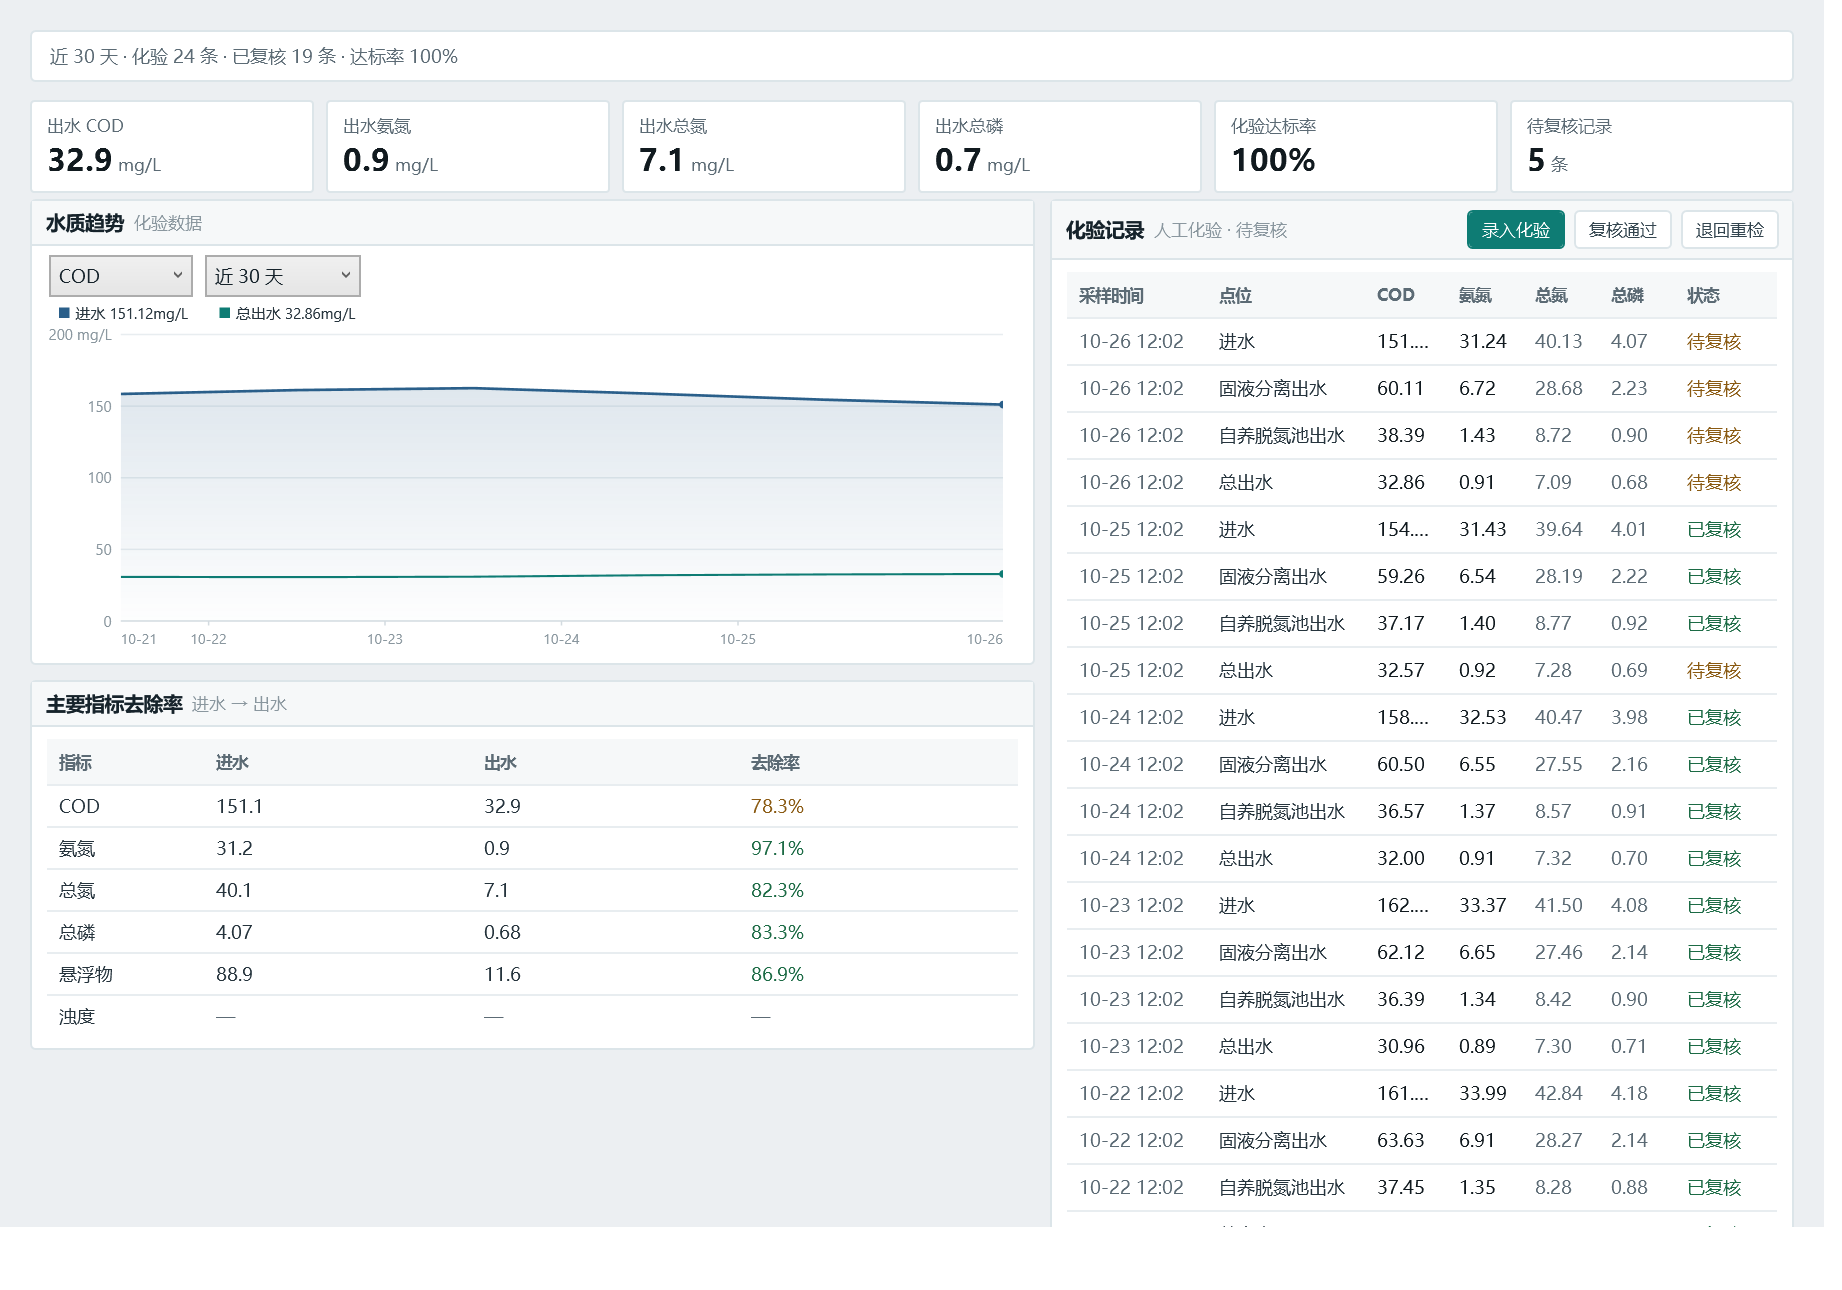
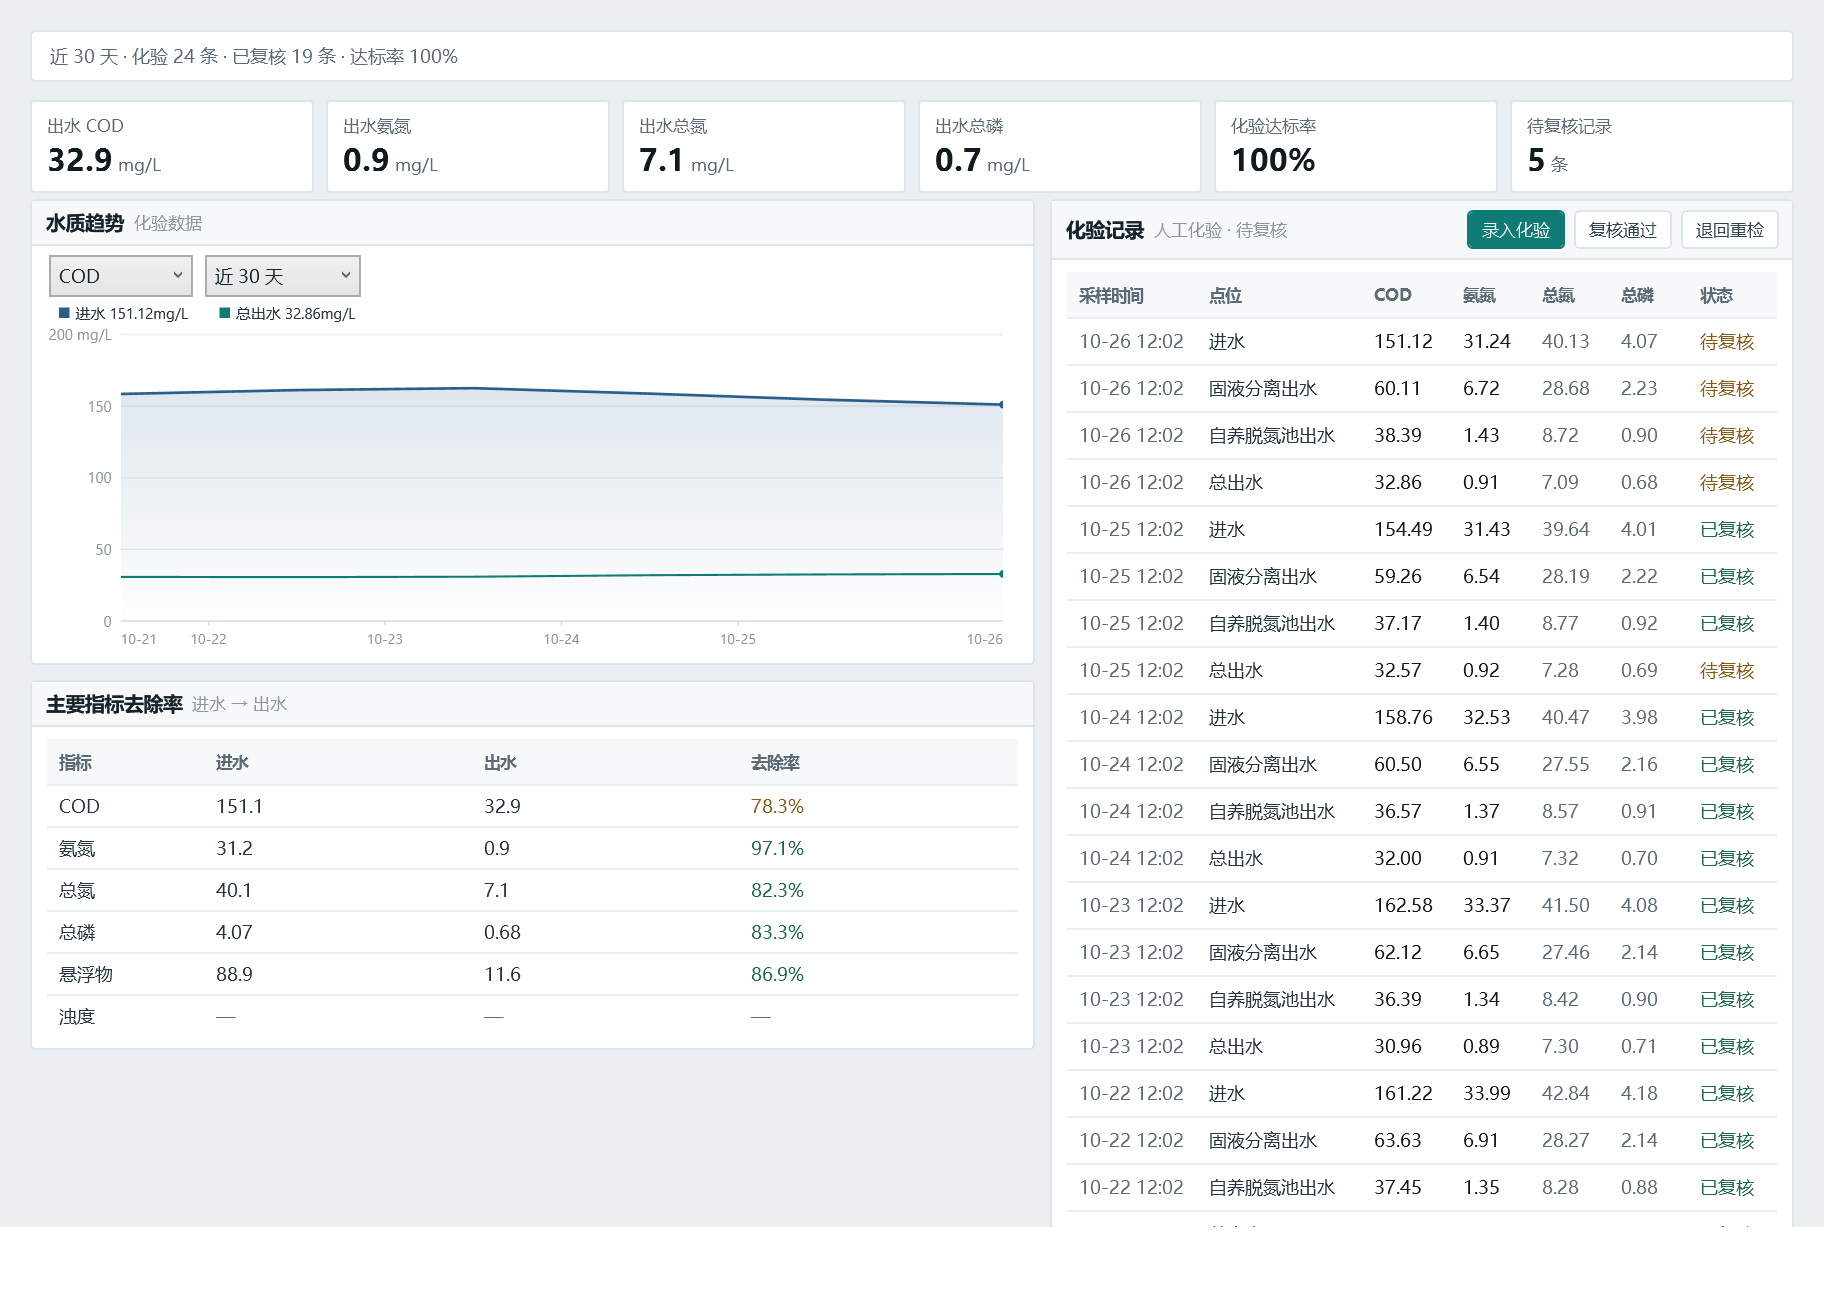
polish(desktop): 化验记录列宽按内容给足，取样点与 COD 不再截断

diff --git a/native/ZhifuWater.Desktop/Pages/QualityPage.cs b/native/ZhifuWater.Desktop/Pages/QualityPage.cs
@@ -71,7 +71,7 @@ public sealed class QualityPage : PageBase
 
         var right = new StackPanel();
         _records = Table(new[] { "采样时间", "点位", "COD", "氨氮", "总氮", "总磷", "状态" },
-            new double[] { 96, 108, 52, 52, 52, 52, 70 });
+            new double[] { 96, 122, 66, 58, 58, 58, 66 });
         _records.SelectionChanged += (_, _) =>
         {
             if (_records.SelectedItem is UiRow row) _selected = row.Data as LabRecord;
